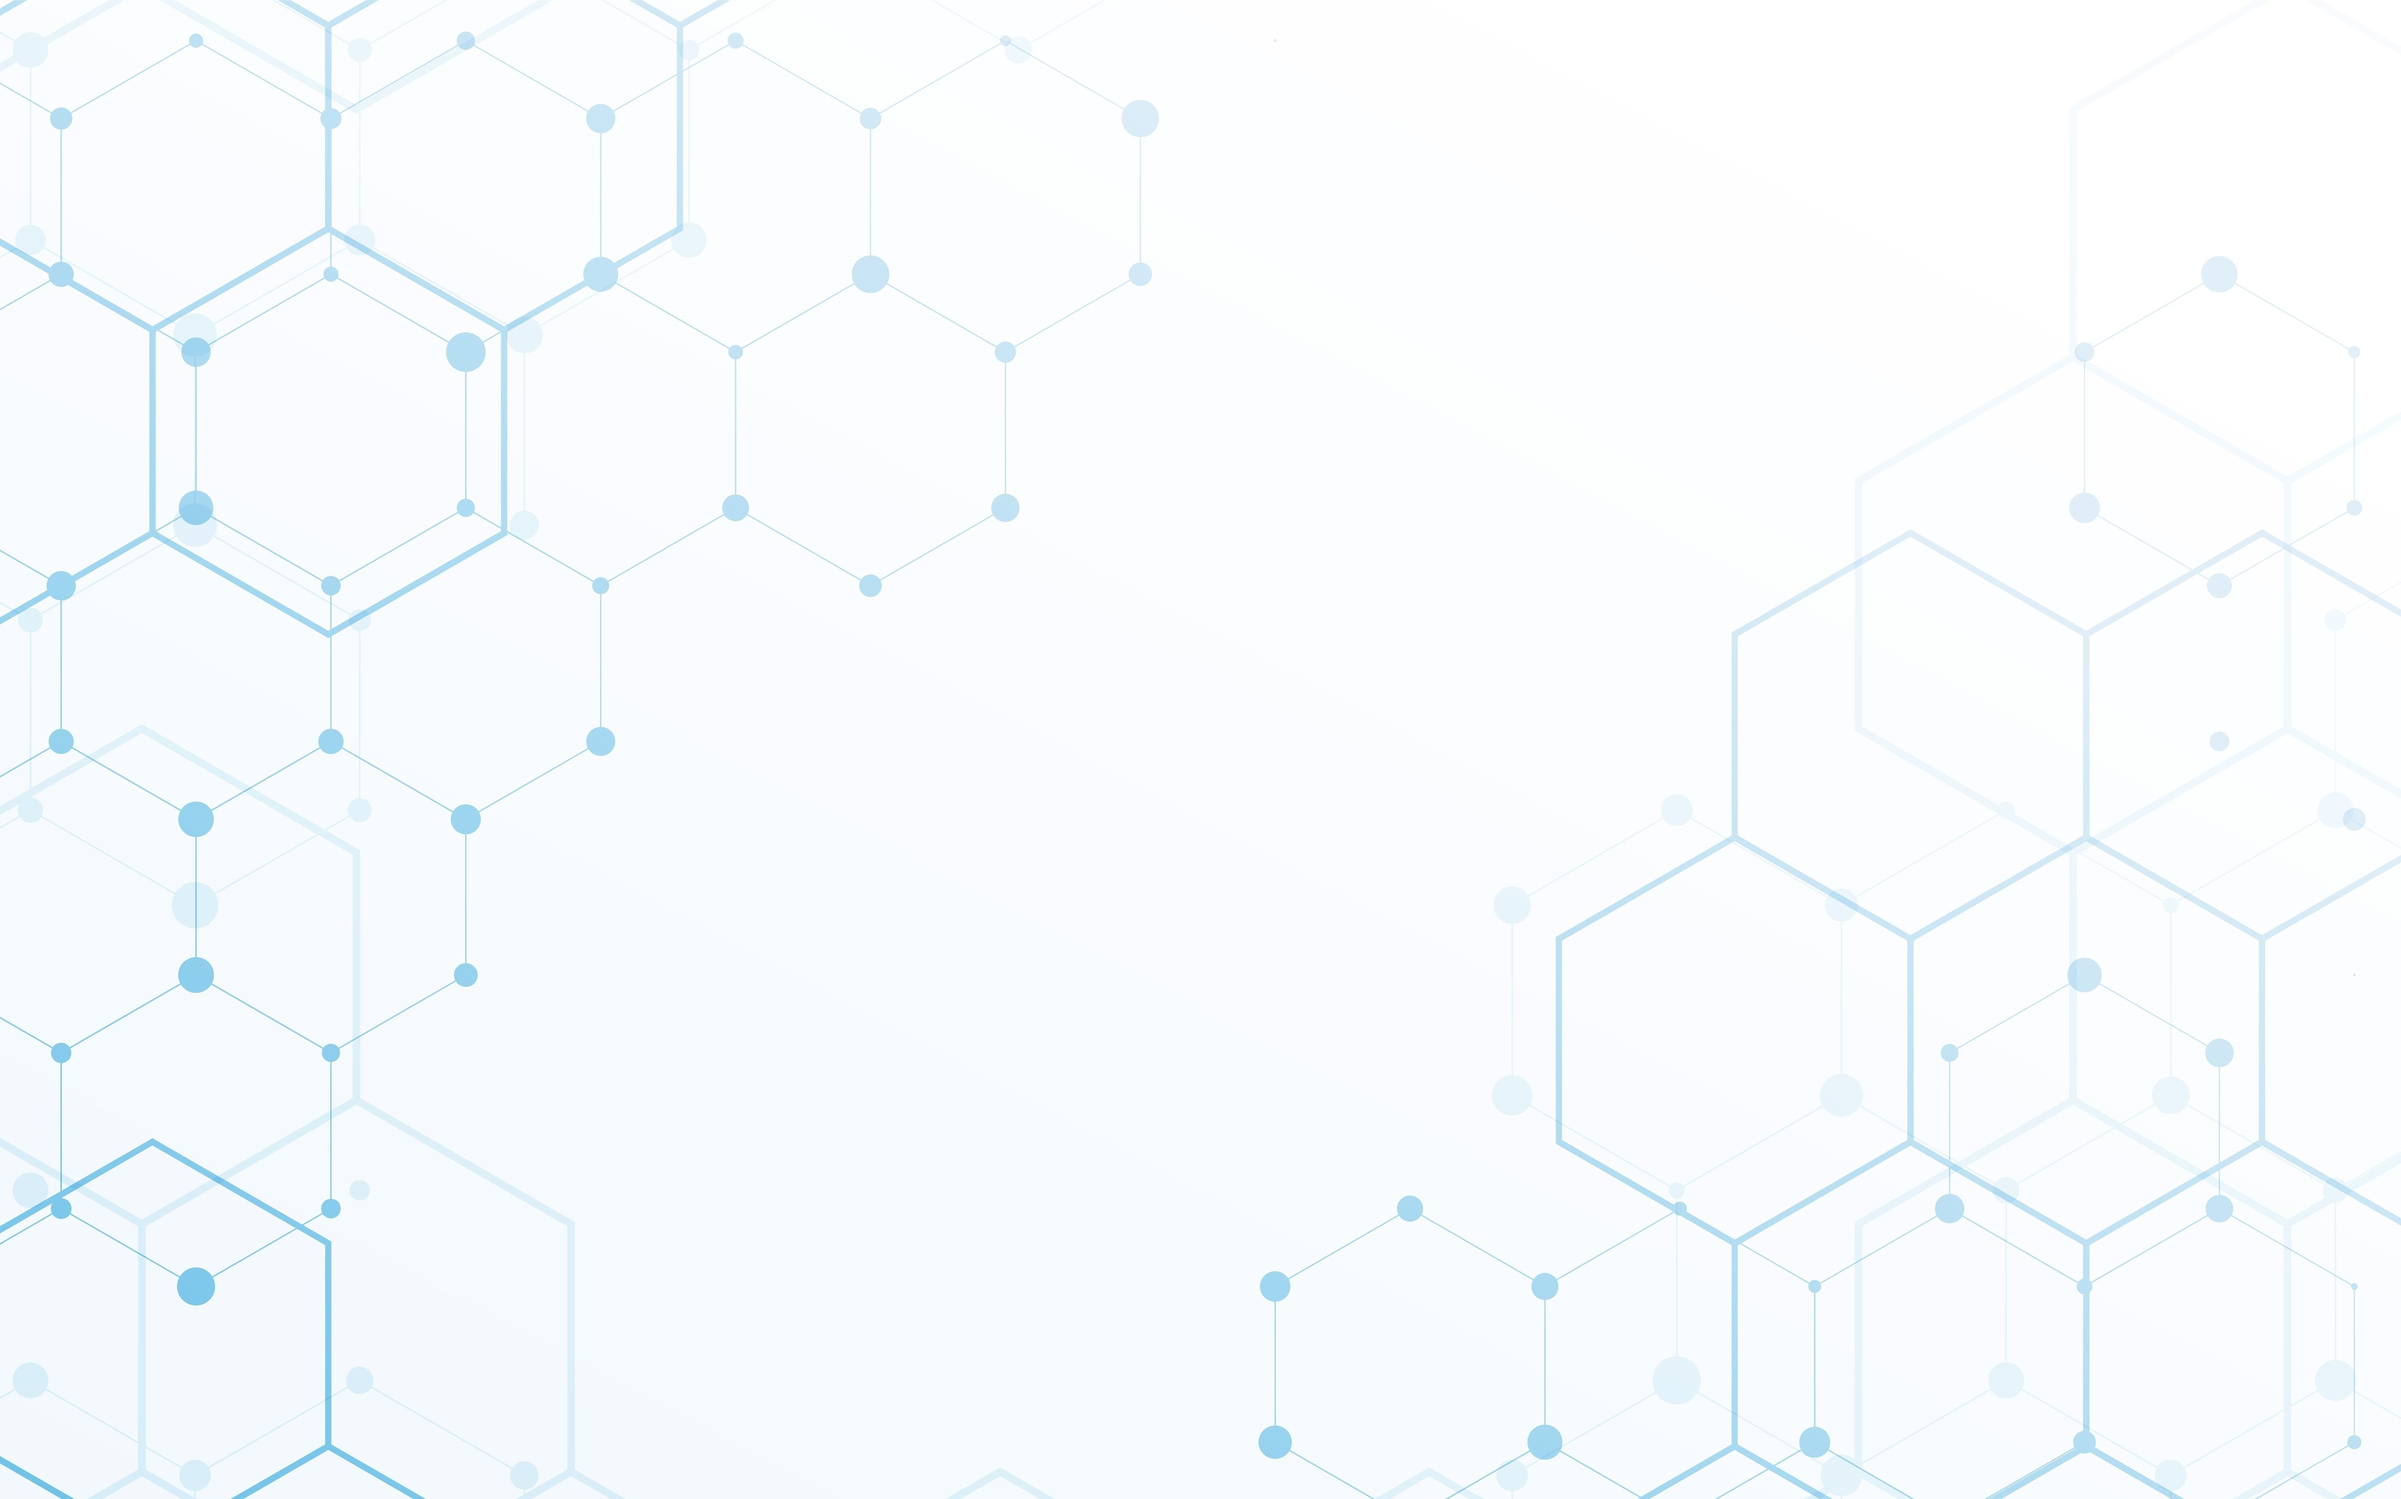
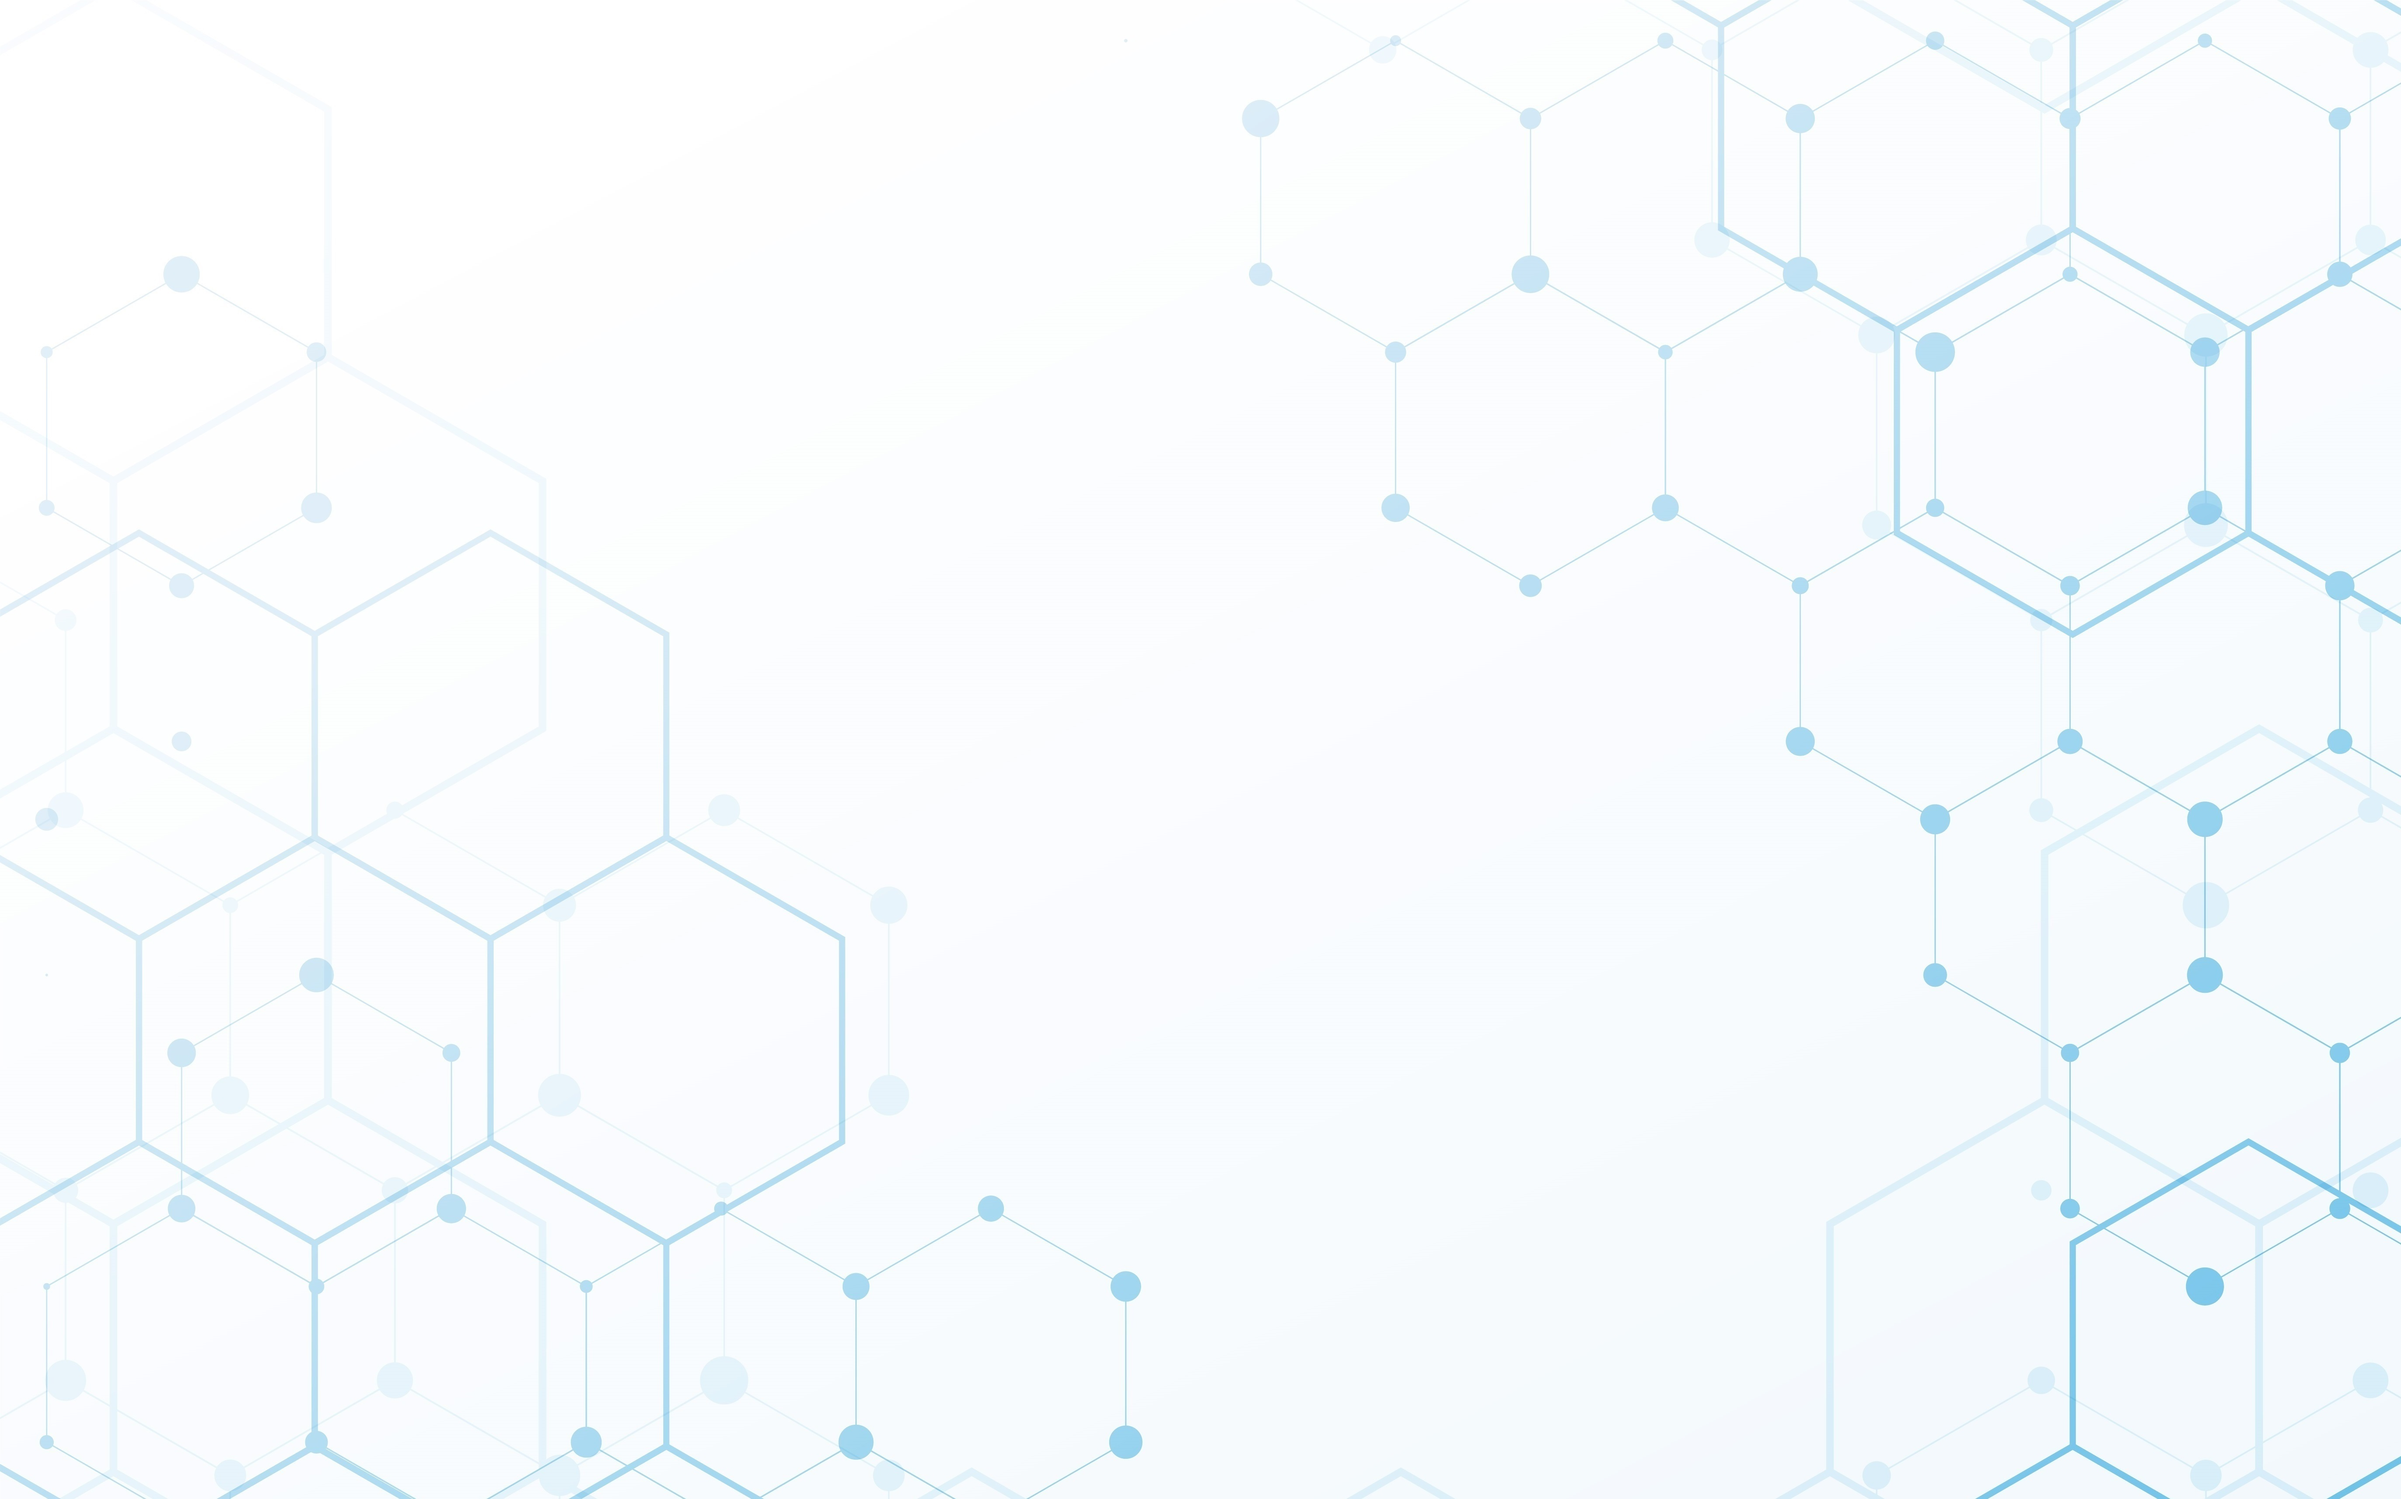
:lipstick: Habilidades
Atualizando posições da habilidades

diff --git a/estilos/layout.css b/estilos/layout.css
@@ -361,7 +361,7 @@ section #quadro_reconhecimento3:hover {
 /* ================ INICIO SEÇÃO HABILIDADES ===============*/
 
 section#habilidades {
-    background-image: linear-gradient(rgb(255, 255, 255, 1), rgba(255, 255, 255, 0), rgba(255, 255, 255, 1), rgba(255, 255, 255, 1)), url(../imagens/imagens/fundo_habilidades.jpg);
+    background-image: linear-gradient(rgb(255, 255, 255, 1), rgba(255, 255, 255, 0), rgba(255, 255, 255, 0), rgba(255, 255, 255, 1)), url(../imagens/imagens/fundo_habilidades.jpg);
     background-repeat: no-repeat;
 
     background-size: 100%;
@@ -376,13 +376,14 @@ section#habilidades {
 }
 
 section #titulo_habilidades {
-    margin-left: -1090px;
+    margin-right: 590px;
+    margin-top: 100px;
 
 }
 
 #habilidades #descricao_habilidade {
     letter-spacing: 2px;
-    margin-left: 220px;
+    margin-left: 350px;
 
 }
 
@@ -390,6 +391,7 @@ section #titulo_habilidades {
 
     margin: auto;
     margin-top: 50px;
+    margin-right: 50px;
     width: 70%;
     height: 450px;
     position: relative;
@@ -438,7 +440,7 @@ section #titulo_habilidades {
 #habilidades #descricao_habilidade_carrossel p {
     margin-top: -150px;
     letter-spacing: 2px;
-    margin-left: 220px;
+    margin-left: 500px;
 }
 
 

diff --git a/estilos/tipografia.css b/estilos/tipografia.css
@@ -53,3 +53,7 @@ h3{
  #descricao_habilidade p{
     font-size: 18px;
  }
+ #descricao_habilidade_carrossel p{
+    font-size: 18px;
+
+ }
